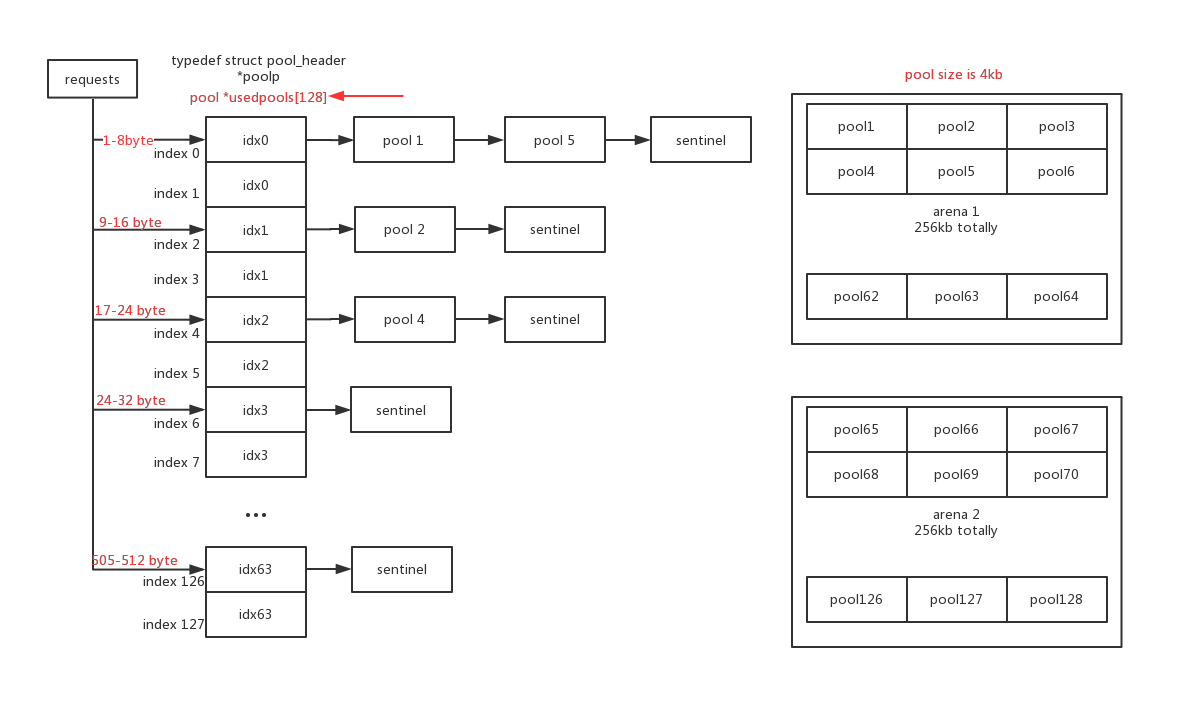
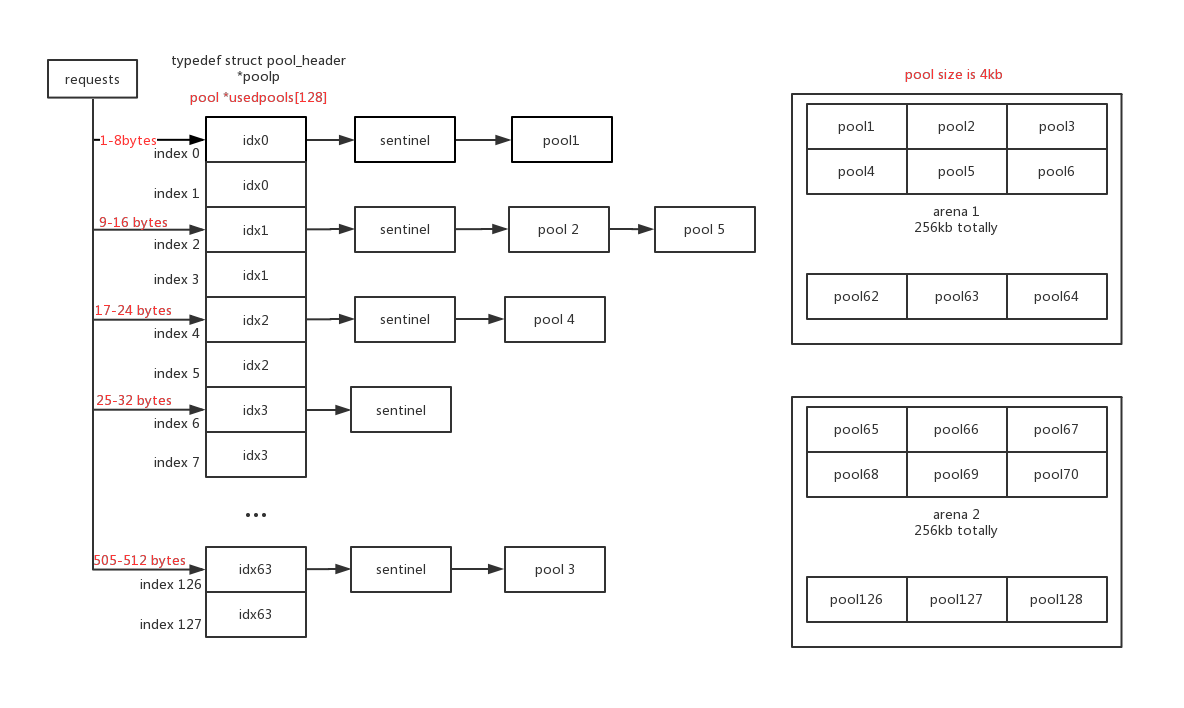
mm with example0

diff --git a/Interpreter/memory_management/memory_management.md b/Interpreter/memory_management/memory_management.md
@@ -11,7 +11,9 @@
 	* [arena](#arena)
 	* [memory layout](#memory-layout)
 	* [usedpools](#usedpools)
-
+		* [why only half of the usedpools elements are used](#why-only-half-of-the-usedpools-elements-are-used)
+* [example](#example)
+	* [overview](#overview)
 
 ## related file
 
@@ -79,7 +81,7 @@ there're lots of memory **block** in differenct size, word **block** in memory *
 
 a **pool** stores a collection of memory **block** of the same size
 
-usually, the total size of memory blocks in a pool is 4kb, which is the same as system page size
+usually, the total size of memory blocks in a pool is 4kb, which is the same as most of the system page size
 
 initially, the addresses for different memory block in the same pool are continously
 
@@ -105,7 +107,11 @@ the defination of **usedpools** in C is convoluted, the following picture shows 
 
 ![usedpools](https://github.com/zpoint/CPython-Internals/blob/master/Interpreter/memory_management/usedpools.png)
 
-element in **usedpools** is of type `pool_header *`, size of **usedpools** is 128, but only half of the element is in use
+element in **usedpools** is of type `pool_header *`, size of **usedpools** is 128, but only half of the elements are in used
+
+**usedpools** stores **pool** object with free blocks, every **pool** object in **usedpools** has at least one free memory block
+
+if you get **pool 1** from **idx0**, you can get at least one memory block(8 bytes) from **pool 1**, if you get **pool 4** from **idx2**, you can get at least one memory block(24 bytes) from **pool 4**, and so on
 
 	 cpython/Objects/obmalloc.c
      * For small requests we have the following table:
@@ -129,8 +135,35 @@ element in **usedpools** is of type `pool_header *`, size of **usedpools** is 12
      *      allocator.
      */
 
-**idx0** is the head of a double linked list, each element in the double linked list is a pointer to a **pool**, all pools in **idx0** will handle those memory request <= 8 byte, no matter how many bytes caller request, **pool** in **idx0** will only return a memory block of size 8 bytes each time
+**idx0** is the head of a double linked list, each element in the double linked list is a pointer to a **pool**, all pools in **idx0** will handle those memory request <= 8 bytes, no matter how many bytes caller request, **pool** in **idx0** will only return a memory block of size 8 bytes each time
 
 **idx2** is the head of a double linked list, all pools in **idx0** will handle those memory request (9 bytes <= request_size <= 16 bytes), no matter how many bytes caller request, **pool** in **idx0** will only return a memory block of size 16 bytes each time
 
 and so on
+
+#### why only half of the usedpools elements are used
+
+every memory request will be routed to the **idxn** in **usedpools**, there must be a very fast way to access **idxn** for the underlying memory request with size **nbytes**
+
+    #define ALIGNMENT_SHIFT         3
+    size = (uint)(nbytes - 1) >> ALIGNMENT_SHIFT
+    # idxn = size + size
+    pool = usedpools[size + size]
+
+if the request size **nbytes** is 7, (7 - 1) >> 3 is 0, idxn = 0 + 0, usedpools[0 + 0] will be the target list, so the head of **idx0** is the target pool
+
+if the request size **nbytes** is 24, (24 - 1) >> 3 is 2, idxn = 2 + 2, usedpools[2 + 2] will be the target list, so the head of **idx2** is the target pool
+
+## example
+
+### overview
+
+assume we are going to reqest 5 bytes from python's memory allocator, because the request size is less than **SMALL_REQUEST_THRESHOLD**(512 bytes), it's routed to python's raw memory allocator instead of the system's allocator(**malloc** system call)
+
+	size = (uint)(nbytes - 1) >> ALIGNMENT_SHIFT = (5 - 1) >> 3 = 0
+    pool = usedpools[0 + 0]
+
+so **pool** header will be the first element in **idx0**, follow the linked list, we will found first **pool** which can offer memory blocks is **pool1**
+
+![example0](https://github.com/zpoint/CPython-Internals/blob/master/Interpreter/memory_management/example0.png)
+
